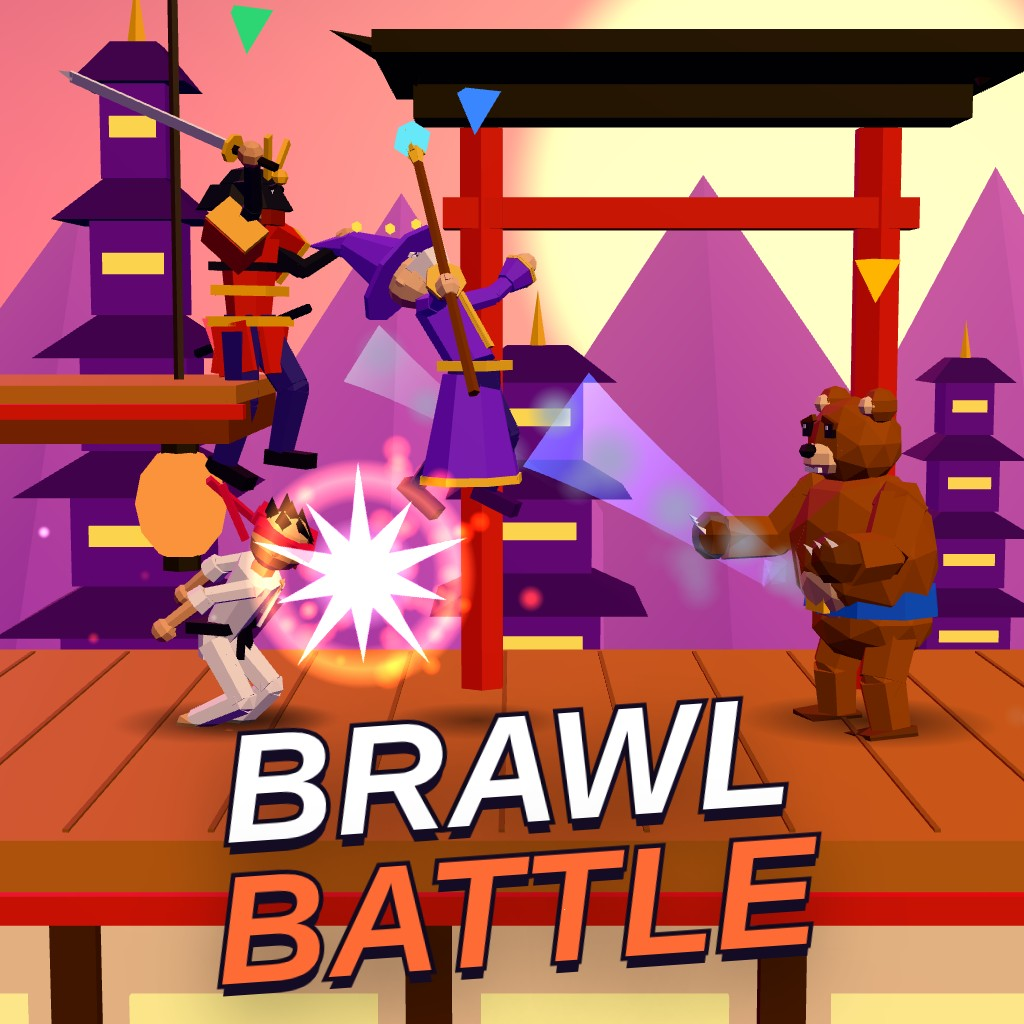
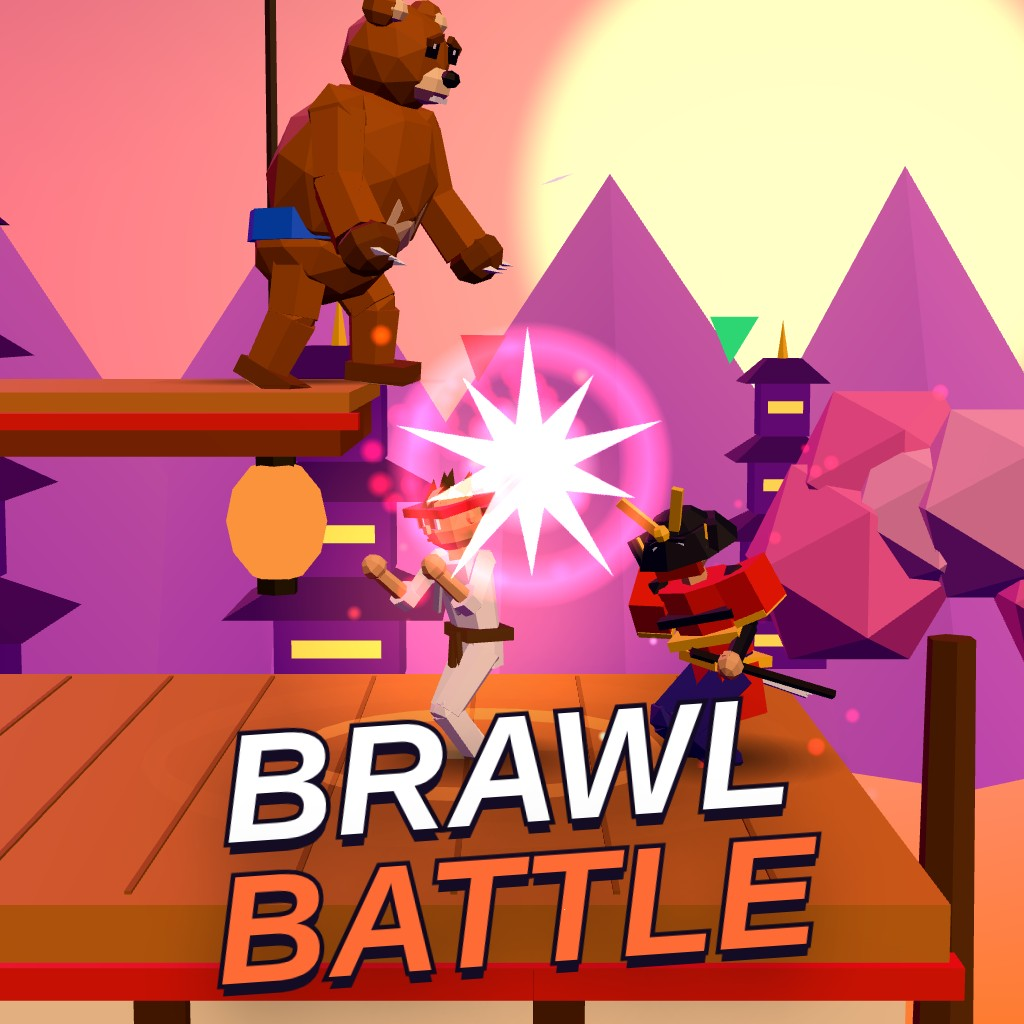
Brawl Battle: new showcase moments and stills, a string in the move lab
The flow changes moved the filmed fight. The loop now starts at 13.3 seconds with three KOs, and the stills hold the samurai's charged Heaven Cut. The icon and poster are filmed again. The move lab plays a light string into a heavy on a close partner.

Claude-Session: https://claude.ai/code/session_01D1DBDL5jLRnzHEGNERorxo

diff --git a/src/games/brawl-battle/showcase/lab.ts b/src/games/brawl-battle/showcase/lab.ts
@@ -18,6 +18,8 @@ interface Segment {
   ult?: boolean;
   /** Stands the partner further off, so projectiles and dashes show their whole flight. */
   far?: boolean;
+  /** Stands the partner close, so every link of a string lands. */
+  near?: boolean;
 }
 
 const WAIT = 50;
@@ -31,6 +33,13 @@ const aerial = (name: string, x: number, y: number): Segment => ({
   name,
   frames: WAIT + 20,
   command: (i) => (i === 0 ? { x: 0, y: 0, jump: true } : i === 10 ? { x, y, light: true } : none()),
+});
+/** A light string cancelled into a heavy on each hit, pressed the way a player mashes. */
+const string = (name: string, presses: [number, Partial<Command>][]): Segment => ({
+  name,
+  frames: WAIT + 30,
+  near: true,
+  command: (i) => ({ x: 0, y: 0, ...presses.find(([at]) => at === i)?.[1] }),
 });
 const hold = (name: string, button: "light" | "heavy", x = 0, y = 0): Segment => ({
   name,
@@ -59,6 +68,7 @@ const SCRIPT: Segment[] = [
   tap("heavySide", { heavy: true }, 1),
   { ...tap("heavyUp", { heavy: true }, 0, 1), frames: 110 },
   tap("heavyDown", { heavy: true }, 0, -1),
+  string("string", [[0, { light: true }], [4, { light: true, x: 1 }], [12, { light: true, y: 1 }], [20, { heavy: true }]]),
   hold("holdSide", "light", 1),
   hold("holdUp", "light", 0, 1),
   hold("holdDown", "light", 0, -1),
@@ -114,7 +124,7 @@ export function makeLab(character: CharacterId): Lab {
 /** Puts both fighters back on their marks between moves, standing and healed, so every move plays the same. */
 function reset(state: MatchState, seg: Segment): void {
   const main = state.stage.surfaces[0]!;
-  for (const [id, x, facing] of [[0, -1.6, 1], [1, seg.far ? 3.4 : 0.9, -1]] as const) {
+  for (const [id, x, facing] of [[0, -1.6, 1], [1, seg.far ? 3.4 : seg.near ? -0.4 : 0.9, -1]] as const) {
     const who = state.fighters[id];
     if (!who || who.action === "dead" || who.action === "out" || who.action === "respawn") continue;
     Object.assign(who, { action: "idle", frame: 0, move: null, ground: 0, facing, hitstun: 0, freeze: 0, lag: 0, percent: 20, platform: null });

diff --git a/src/games/brawl-battle/showcase/script.ts b/src/games/brawl-battle/showcase/script.ts
@@ -16,28 +16,27 @@ export const SEED = 9;
 export const PREROLL = 2.95;
 
 /**
- * Where the loop's match starts, in seconds. Four KOs land in the film:
- * the samurai knocks the mage out, the bear sends the samurai after, the
- * karate takes the bear and the samurai the karate. Along the way the
- * bear throws two charged Haymakers and the mage a charged Frost Ring.
+ * Where the loop's match starts, in seconds. Three KOs land in the film,
+ * one after another: the mage knocks the samurai out, the bear sends
+ * the mage after, and the samurai takes the bear.
  */
-export const LOOP_LEAD = 15.6;
+export const LOOP_LEAD = 13.3;
 
 /** How long the tool films: an eight second clip and one more second to blend over its start. */
 export const FILMED = 9;
 
 /** The poster and the icon are single frames, run this far ahead without drawing and then held. */
-export const STILL_AT: Record<ShowcaseView, number> = { loop: 0, poster: 4.85, icon: 4.85 };
+export const STILL_AT: Record<ShowcaseView, number> = { loop: 0, poster: 9.1, icon: 9.1 };
 
 /**
- * The stills' shots, in stage metres: the karate letting go of a charged
- * Dragon Flight in a flare, with the samurai slashing down from the air
- * onto the mage and the bear stepping in. The icon sits closer and low,
- * so the action clears the logo.
+ * The stills' shots, in stage metres: the samurai letting go of a charged
+ * Heaven Cut in a flare at the right edge, with the karate rushing in and
+ * the bear on the platform above. The icon sits closer and low, so the
+ * action clears the logo.
  */
 export const STILL_CAMERA: Partial<Record<ShowcaseView, { x: number; y: number; distance: number }>> = {
-  poster: { x: -0.9, y: 2.2, distance: 12 },
-  icon: { x: -1.1, y: 1.3, distance: 11.5 },
+  poster: { x: 6.2, y: 2.2, distance: 11.5 },
+  icon: { x: 6.8, y: 1.4, distance: 10.5 },
 };
 
 /** The showcase's match, the same every time for the same seed. */
